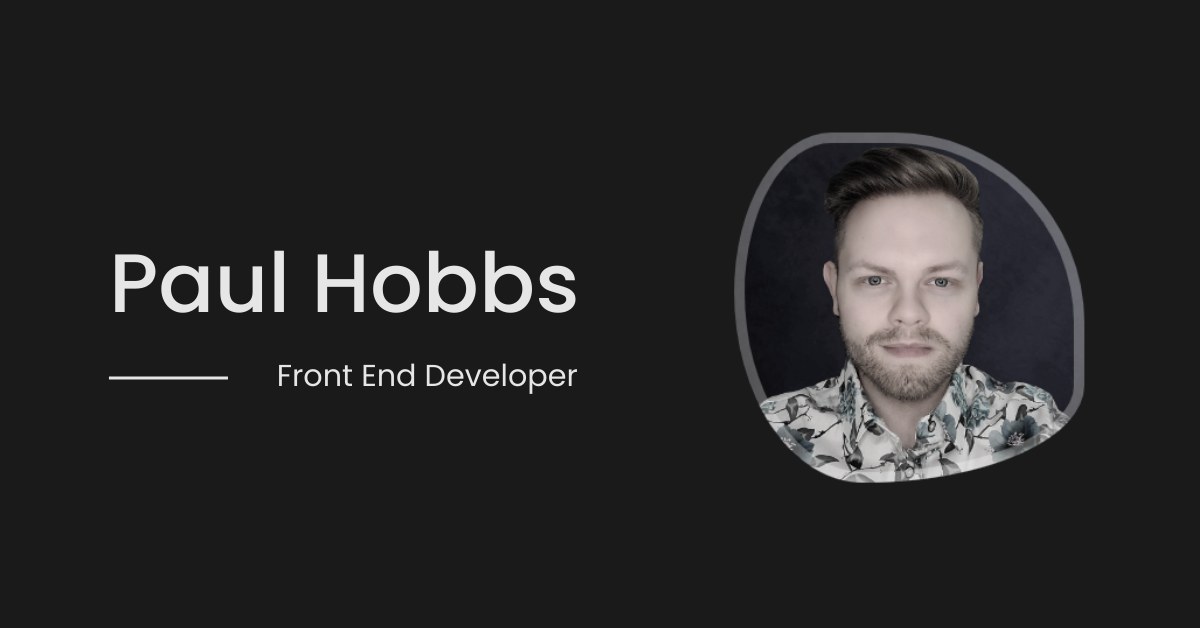
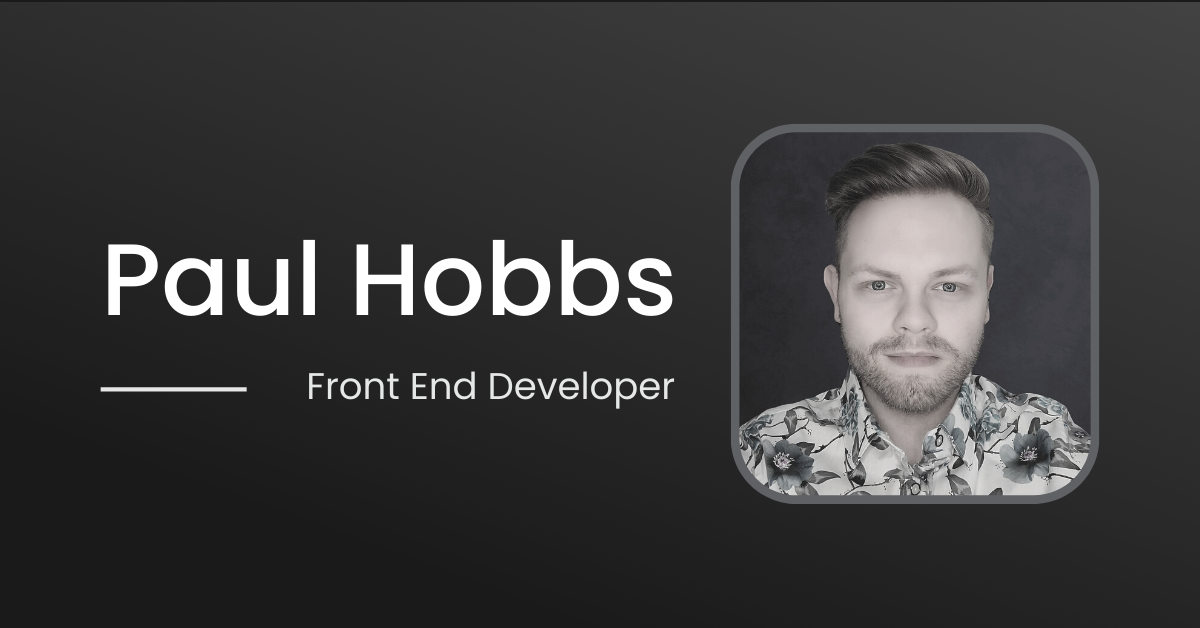
Update social sharing image and OG description

diff --git a/public/index.html b/public/index.html
@@ -14,7 +14,10 @@
             property="og:description"
             content="Hi, I'm Paul, a front end developer and brand designer who loves to create projects that have impactful design."
         />
-        <meta property="og:title" content="Paul Hobbs | Front End Developer" />
+        <meta
+            property="og:title"
+            content="Paul Hobbs | Design, Develop, Deploy"
+        />
 
         <!--======================= BOX ICONS =====================-->
         <link
